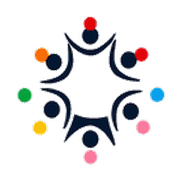
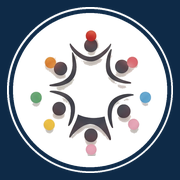
Ícono redondo de VIGÍA y botón «Activar notificaciones»
En iPhone el permiso de notificaciones solo se puede pedir con un toque: se agrega un aviso con botón cuando el permiso no está dado.

Claude-Session: https://claude.ai/code/session_01F48CEsfW35w4axsmTj3Ydo

diff --git a/index.html b/index.html
@@ -63,7 +63,7 @@
     var id = (window.__API || '').split('/s/')[1]; id = id ? id.split('/')[0] : '';
     var m = {name: 'Portal VIGÍA', short_name: 'VIGÍA', start_url: b + (id ? '?k=' + id : ''), scope: b, display: 'standalone',
       background_color: '#F4F6F8', theme_color: '#0E2A47',
-      icons: [{src: b + 'icono.png', sizes: '128x128', type: 'image/png'}, {src: b + 'apple-touch-icon.png', sizes: '180x180', type: 'image/png'}]};
+      icons: [{src: b + 'icono-192.png', sizes: '192x192', type: 'image/png', purpose: 'any'}, {src: b + 'icono-512.png', sizes: '512x512', type: 'image/png', purpose: 'any'}, {src: b + 'apple-touch-icon.png', sizes: '180x180', type: 'image/png'}]};
     var l = document.createElement('link'); l.rel = 'manifest';
     l.href = 'data:application/manifest+json,' + encodeURIComponent(JSON.stringify(m));
     document.head.appendChild(l);
@@ -6580,13 +6580,36 @@ function vigiaPush() {
   var OS = window.__OS; if (!OS) return;
   var n = (typeof AUTH !== 'undefined' && AUTH.nombre) || ''; if (!n) return;
   try { OS.User.addTag('rol', vigiaRolTag(n)); } catch (e) {}
-  try { if (!OS.Notifications.permission) OS.Slidedown.promptPush(); } catch (e) {}
+  try { vigiaBannerPush(); } catch (e) {}
 }
 (function () {
   if (typeof guardarAuth !== 'function') return;
   var g = guardarAuth;
   guardarAuth = function () { g.apply(this, arguments); setTimeout(vigiaPush, 400); };
 })();
+</script>
+<script>
+// v24 · 30-oct-2026 · botón «Activar notificaciones»: en iPhone el permiso solo se puede pedir con un toque
+function vigiaBannerPush() {
+  var el = document.getElementById('vg-push'); if (el) el.remove();
+  try { if (sessionStorage.getItem('vg-push-x')) return; } catch (e) {}
+  var sup = ('Notification' in window), perm = sup ? Notification.permission : 'no';
+  if (perm === 'granted') { try { if (window.__OS && AUTH.nombre) window.__OS.User.addTag('rol', vigiaRolTag(AUTH.nombre)); } catch (e) {} return; }
+  var ios = /iPhone|iPad|iPod/.test(navigator.userAgent), inst = (window.navigator.standalone === true) || matchMedia('(display-mode: standalone)').matches;
+  var txt, btn = '';
+  if (perm === 'default') { txt = 'Recibe en este teléfono los avisos de VIGÍA (altas, ingresos, QR).'; btn = '<button id="vg-push-b" style="background:#fff;color:#0E2A47;border:0;border-radius:8px;padding:10px 14px;font-weight:700;font-size:14px">Activar notificaciones</button>'; }
+  else if (perm === 'denied') txt = 'Las notificaciones están bloqueadas. Actívalas en Ajustes › Notificaciones › VIGÍA (o en los permisos del sitio).';
+  else if (ios && !inst) txt = 'En iPhone: Compartir › Agregar a inicio, y abre VIGÍA desde ese ícono para activar las notificaciones.';
+  else txt = 'Este navegador no permite notificaciones. Usa Chrome (Android/PC) o la app desde el ícono (iPhone).';
+  document.body.insertAdjacentHTML('beforeend', '<div id="vg-push" style="position:fixed;left:12px;right:12px;bottom:12px;z-index:9999;background:#0E2A47;color:#fff;border-radius:12px;padding:12px 14px;display:flex;gap:10px;align-items:center;flex-wrap:wrap;font:14px/1.4 system-ui,sans-serif;box-shadow:0 4px 16px rgba(0,0,0,.25)"><span style="flex:1 1 200px">' + txt + '</span>' + btn + '<button id="vg-push-x" aria-label="Cerrar" style="background:transparent;color:#fff;border:0;font-size:20px;line-height:1;padding:6px">×</button></div>');
+  document.getElementById('vg-push-x').onclick = function () { try { sessionStorage.setItem('vg-push-x', '1'); } catch (e) {} document.getElementById('vg-push').remove(); };
+  var b = document.getElementById('vg-push-b');
+  if (b) b.onclick = function () {
+    var p = (window.__OS && window.__OS.Notifications) ? window.__OS.Notifications.requestPermission() : Notification.requestPermission();
+    Promise.resolve(p).then(function () { setTimeout(function () { try { if (window.__OS && AUTH.nombre) window.__OS.User.addTag('rol', vigiaRolTag(AUTH.nombre)); } catch (e) {} vigiaBannerPush(); }, 800); });
+  };
+}
+if (document.readyState === 'loading') document.addEventListener('DOMContentLoaded', function () { setTimeout(vigiaBannerPush, 2500); }); else setTimeout(vigiaBannerPush, 2500);
 </script>
 </body>
 
